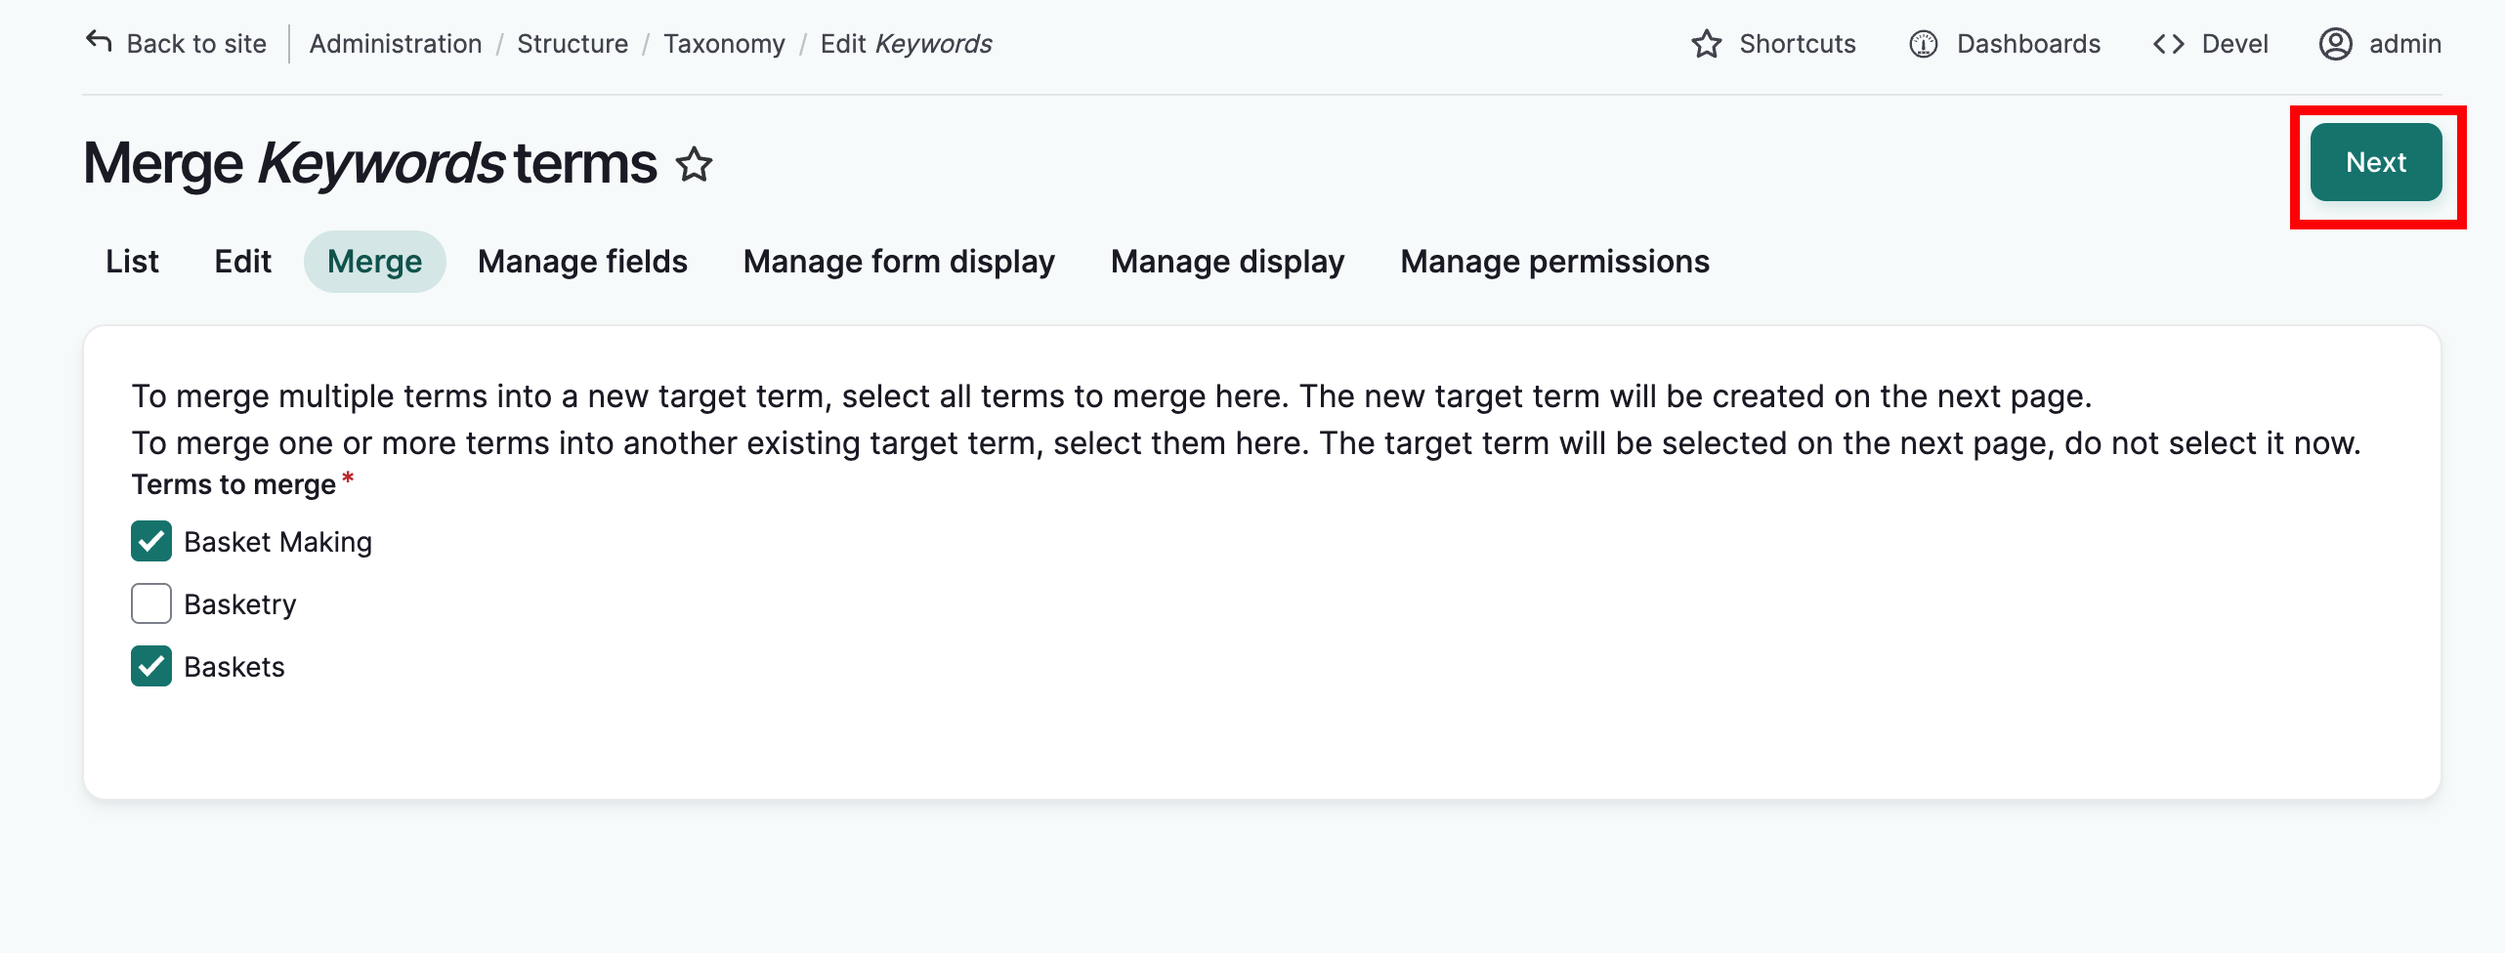
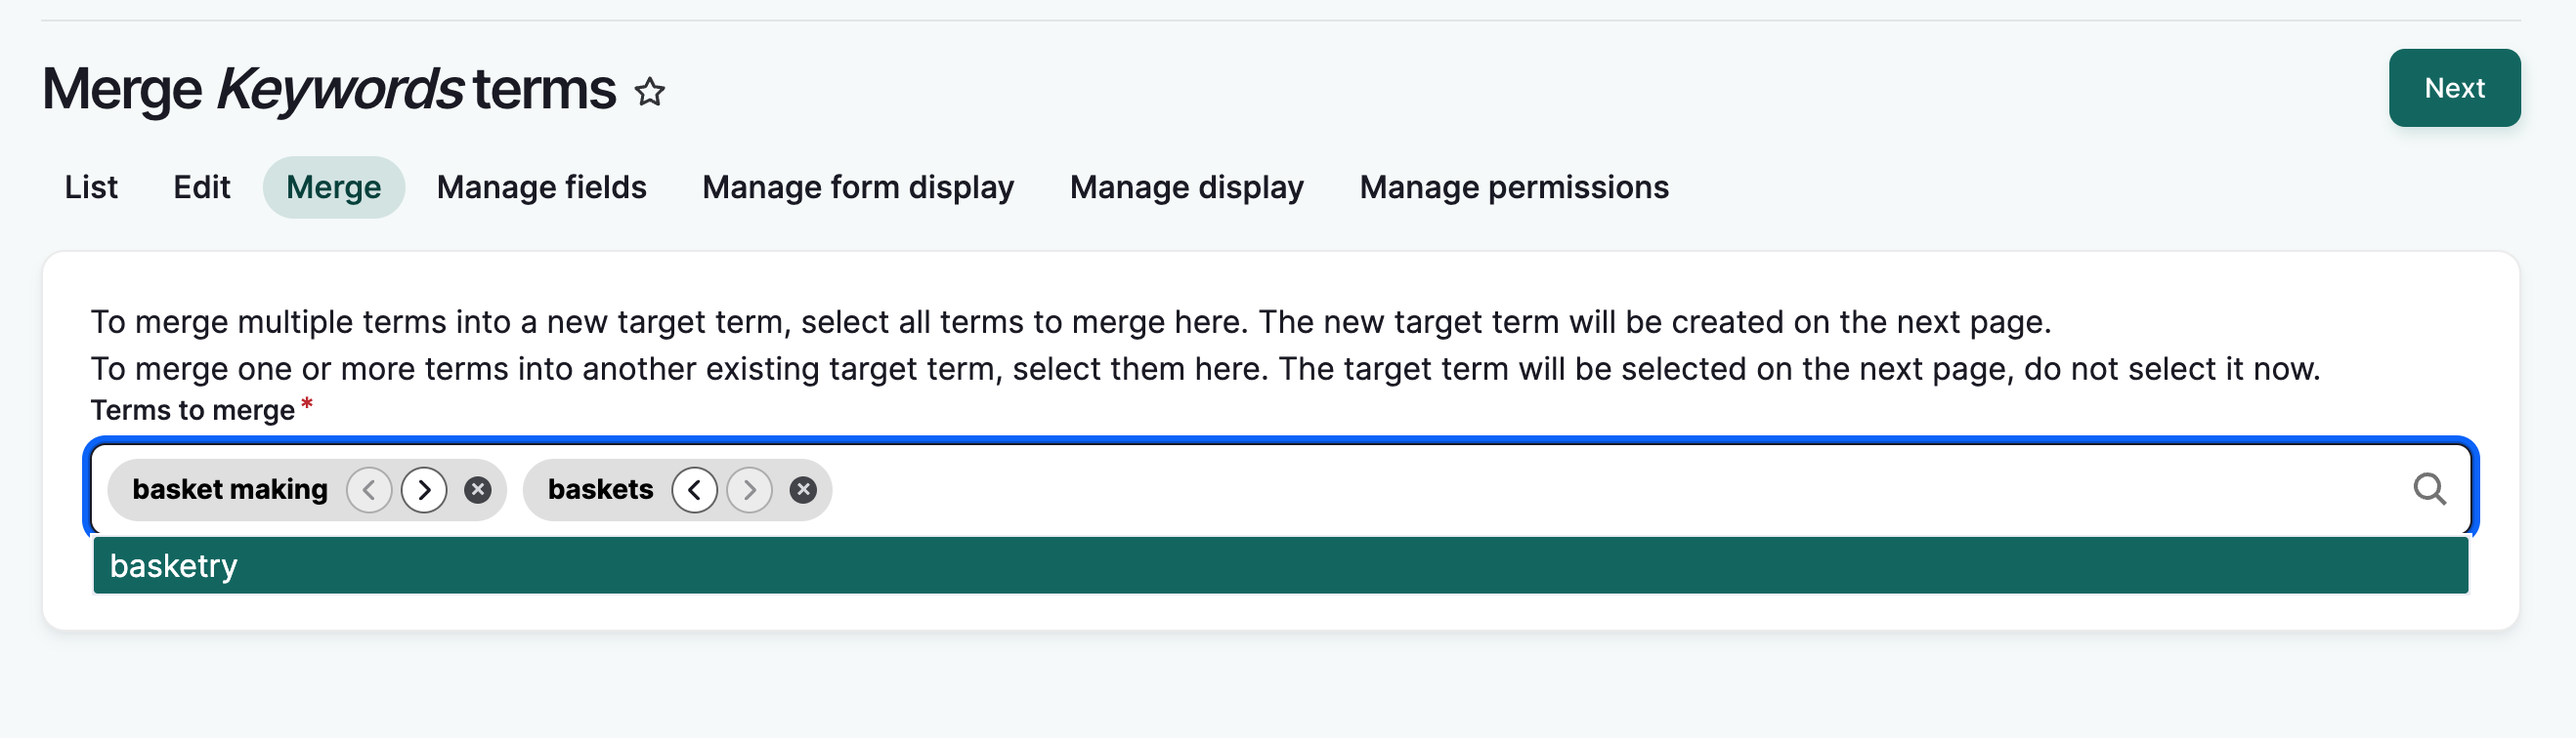
Update manage-tax-11.png
Updated manage-tax-11.png and cleaned up verbiage.

diff --git a/docs/taxonomies/ManagingTaxonomies.md b/docs/taxonomies/ManagingTaxonomies.md
@@ -94,13 +94,13 @@ You may want to merge multiple taxonomy terms together. For example, different u
 
 1. From the appropriate taxonomy list, below the taxonomy name, select "Merge".
 
-    ![The taxonomy list with the "mergeʻ button highlighted](../_embeds/manage-tax-10.png)
+    ![The taxonomy list with the merge button highlighted](../_embeds/manage-tax-10.png)
 
-2. To choose the terms you want to merge together, use the checkboxes to select them. Select "Next" at the top of the page.
-    - To merge multiple terms into a new target term, select all terms to merge here. The new target term will be created on the next page.
-    - To merge one or more terms into another existing target term, select them here. The target term will be selected on the next page, do not select it now.
+2. To choose the terms you want to merge together, select the field to view existing terms. 
 
-    ![The keyword taxonomy page listing all terms. Some terms are selected for merging.](../_embeds/manage-tax-11.png)
+     - To merge multiple terms into a new or existing target term, select the items you wish to merge.The target term will be selected/created on the next page, do not select it now.
+
+    ![The keyword taxonomy merge page listing all terms. Some terms are selected for merging.](../_embeds/manage-tax-11.png)
 
 3. Either enter a new target term or select an existing target term. Select "Merge terms" at the bottom of the page.
     - To merge the selected terms into a new target term, enter it in the "New term" field.
